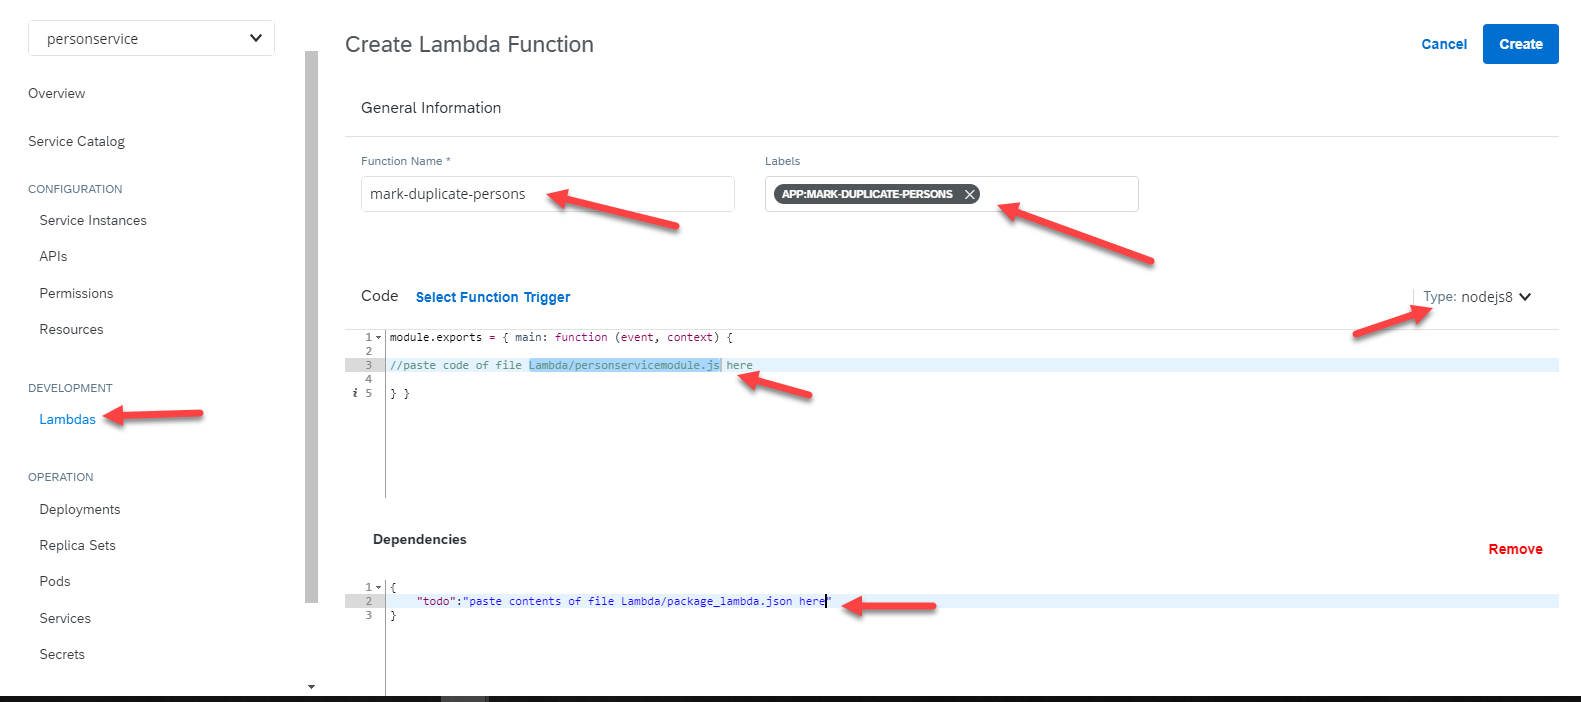
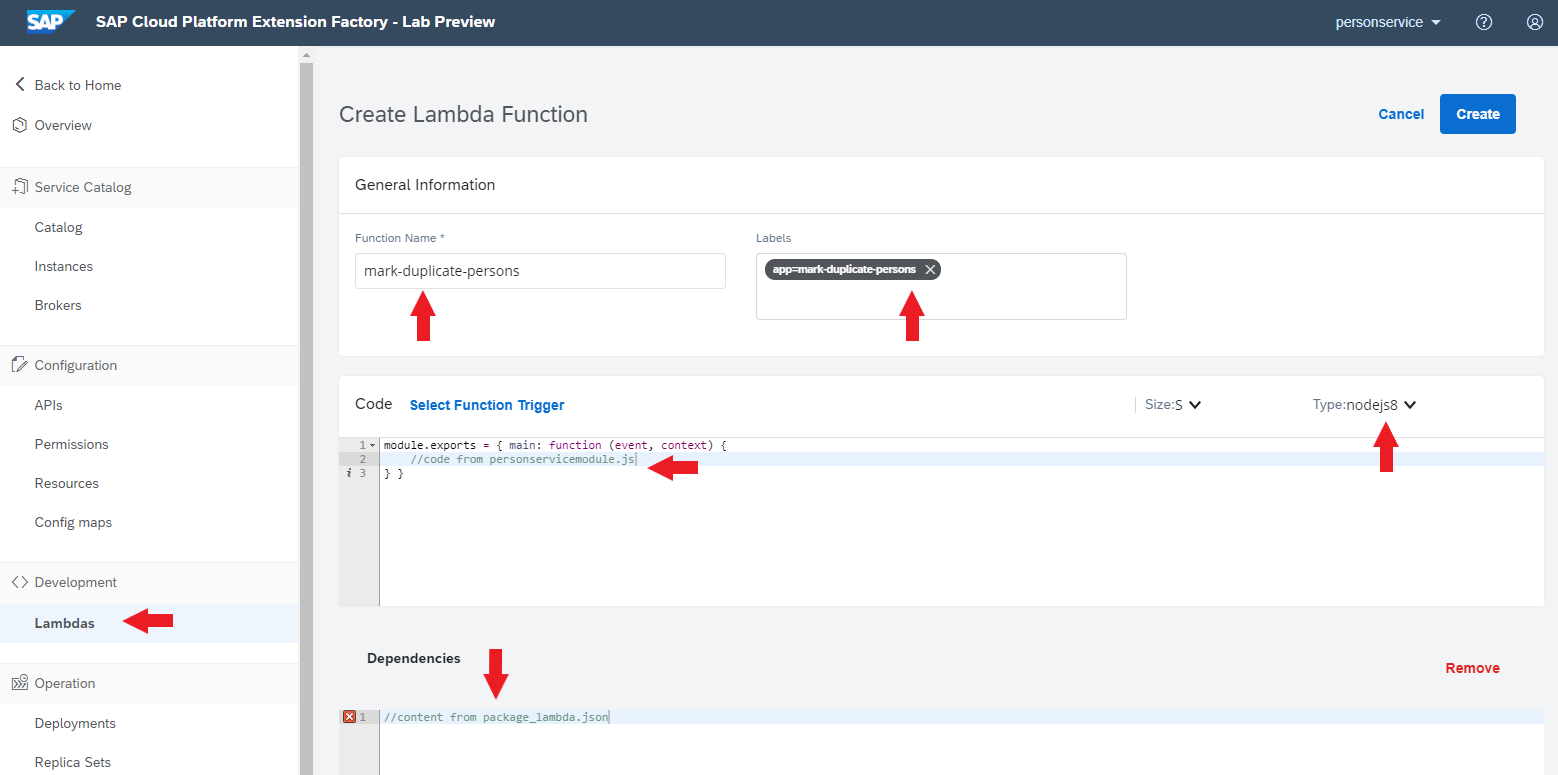
Updated screenshots and changed documentation

diff --git a/personservice/Lambda/personservicemodule.js b/personservice/Lambda/personservicemodule.js
@@ -1,7 +1,6 @@
 const axios = require('axios');     //to invoke REST APIs
 const winston = require('winston'); //to support logging
 
-
 var logLevel = process.env.application_log_level // get Log level from environment variable
 
 if (logLevel === undefined) {
@@ -23,7 +22,7 @@ const traceHeaders = ['x-request-id', 'x-b3-traceid', 'x-b3-spanid', 'x-b3-paren
 module.exports = {
     main: async function (event, context) {
         console.log(`Log level '${logLevel}'`);
-
+        
         var traceCtxHeaders = extractTraceHeaders(event.extensions.request.headers);
 
         var personId = event.data.personid;
@@ -38,7 +37,6 @@ module.exports = {
                 headers: traceCtxHeaders,
                 responseType: 'json'
             });
-
 
             var personMaintained = response.data;
 
@@ -104,7 +102,6 @@ async function updateDuplicatePersonExtension(duplicatePersonsArray, traceCtxHea
 
         logger.log('debug', `Updating Person ${duplicatePersonsArray[counter]}, calling PATCH: ${url}`, { "data": data });
 
-
         var response = await axios.patch(url, data, {
             headers: traceCtxHeaders,
             responseType: 'json'
@@ -113,12 +110,10 @@ async function updateDuplicatePersonExtension(duplicatePersonsArray, traceCtxHea
         logger.log('info', `Person ${response.data.id} successfully updated`);
         logger.log('debug', `Person ${response.data.id} updated, `, { "responseData": response.data });
     }
-
 }
 
 async function findDuplicates(personToSearch, traceCtxHeaders) {
     var url = `${process.env.GATEWAY_URL}/api/v1/person/search`;
-
 
     logger.log('debug', `Calling POST: ${url}`, { "searchRequest": personToSearch });
 
@@ -155,4 +150,3 @@ function extractTraceHeaders(headers) {
     }
     return map;
 }
-

diff --git a/personservice/Lambda/personservicecaller.js b/personservice/Lambda/personservicecaller.js
@@ -3,22 +3,18 @@ const personservice = require('./personservicemodule');
 var express = require('express');
 var app = express();
 
-
 console.log(`GATEWAY_URL = ${process.env.GATEWAY_URL}`);
-
-
 
 app.get("/", async function (req, res) {
     var event = {
         "data": {
-            "personid":req.query.personId
+            "personid":req.query.personid
         },
         "extensions": {
             "request": req,            
             "response":res        
         }
     };
-
     await personservice.main(event,{});    
 });
 

diff --git a/personservice/README.md b/personservice/README.md
@@ -416,20 +416,18 @@ As always this function is not intended for productive use.
 
 A precondition for this scenario is that all steps mentioned in [Run the Scenario](#run-the-scenario) have been executed properly.
 
-In your Kyma Envirnoment ("Personservice") go to the Service Catalog and create a new service instance of the Person API:
+In your Kyma Namespace "Personservice" go to the Catalog and create a new service instance of the Person API:
 
 ![Service Instance Creation Screenshot](images/serviceinstance1.png)
 
-![Service Instance Creation Screenshot](images/serviceinstance2.png)
-
-After that verify your instance by going "Back" and clicking on "Service Instances":
+After that verify your instance by selecting "Instances" in the Service Catalog:
 
 ![Service Instance Creation Screenshot](images/serviceinstance3.png)
 
 
 ### Develop your Lambda Function
 
-When developing Lambda functions I like to start locally using the IDE of my choice. Kyma lambda functions are basically "normal" Node.js modules containing the containing the following snippet:
+When developing Lambda functions, I like to start locally using the IDE of my choice. Kyma lambda functions are basically "normal" Node.js modules containing the containing the following snippet:
 
 ```
 module.exports = { 
@@ -462,7 +460,7 @@ As soon as a Lambda requires NPM dependencies, it also require a package.json fi
 }
 ```
 
-Kyma injects service bindings (including Remote Environments) as Environment Variables to be able to mimic this behavior locally the package "dotenv" can be used. it basically converts the contents of a ".env" (no filename, literally ".env") to normal environment variables that can be accessed through `process.env.environment_variable_name` in your code. Sample for that would be (getting the internal URL of the API Connector pointing to the Remote Environment):
+Kyma injects service bindings (including Applications) as Environment Variables. To be able to mimic this behavior locally the package `dotenv` can be used. It basically converts the contents of a `.env` (no file extension, literally ".env") to normal environment variables that can be accessed through `process.env.environment_variable_name` in your code. Sample for that would be (getting the internal URL of the API Connector pointing to the Remote Environment):
 
 ```
 require('dotenv').config();
@@ -478,10 +476,7 @@ const personservice = require('./personservicemodule');
 var express = require('express');
 var app = express();
 
-
 console.log(`GATEWAY_URL = ${process.env.GATEWAY_URL}`);
-
-
 
 app.get("/", async function (req, res) {
     var event = {
@@ -489,12 +484,11 @@ app.get("/", async function (req, res) {
             "personid":req.query.personId
         },
         "extensions": {
-            "request": req,            
-            "response":res        
+            "request": req,
+            "response":res
         }
     };
-
-    await personservice.main(event,{});    
+    await personservice.main(event,{});
 });
 
 app.listen(3000, function () {
@@ -503,7 +497,7 @@ app.listen(3000, function () {
 ```
 
 
-The code for the sample Lambda function is contained in the "Lambda" folder. in order to run it locally, ensure you have a Node.js (https://nodejs.org/en/download/) environment (Version 8.x installed, to check, execute `node --version`). You also need to make a few changes to the ".env" file. Again you need to replace all occurrences of replaceme. "GATEWAY_URL" must have a value pointing to your deployment of personservice (only root, no "/" in the end).
+The code for the sample Lambda function is contained in the "Lambda" folder. in order to run it locally, ensure you have a Node.js (https://nodejs.org/en/download/) environment (Version 8.x+ installed, to check, execute `node --version`). You also need to make a few changes to the ".env" file. Again you need to replace all occurrences of replaceme. "GATEWAY_URL" must have a value pointing to your deployment of personservice (only root, no "/" in the end).
 The wrapper starts a local http server on port 3000 that uses the query parameter personId which must be the ID of a person in your mongo db (basically GET /api/v1/person/{PERSON_ID} must return a 200 status code). 
 
 Then install the dependencies: `npm install axios winston dotenv express`
@@ -516,8 +510,7 @@ This should give you a fair idea of how to develop Lambdas.
 
 ### Deploy your Lambda Function
 
-To deploy your Lambda you need to go to your "personservice" Kyma environment. Click on Lambdas and create a new one. Fill all the fields shown in the below screenshots and then save:
-
+To deploy your Lambda you need to go to your "personservice" Kyma namespace. Click on Lambdas and create a new one. Fill all the fields as shown in the below screenshots and then save:
 
 ![Lambda Creation Screenshot](images/lambda1.png)
 
